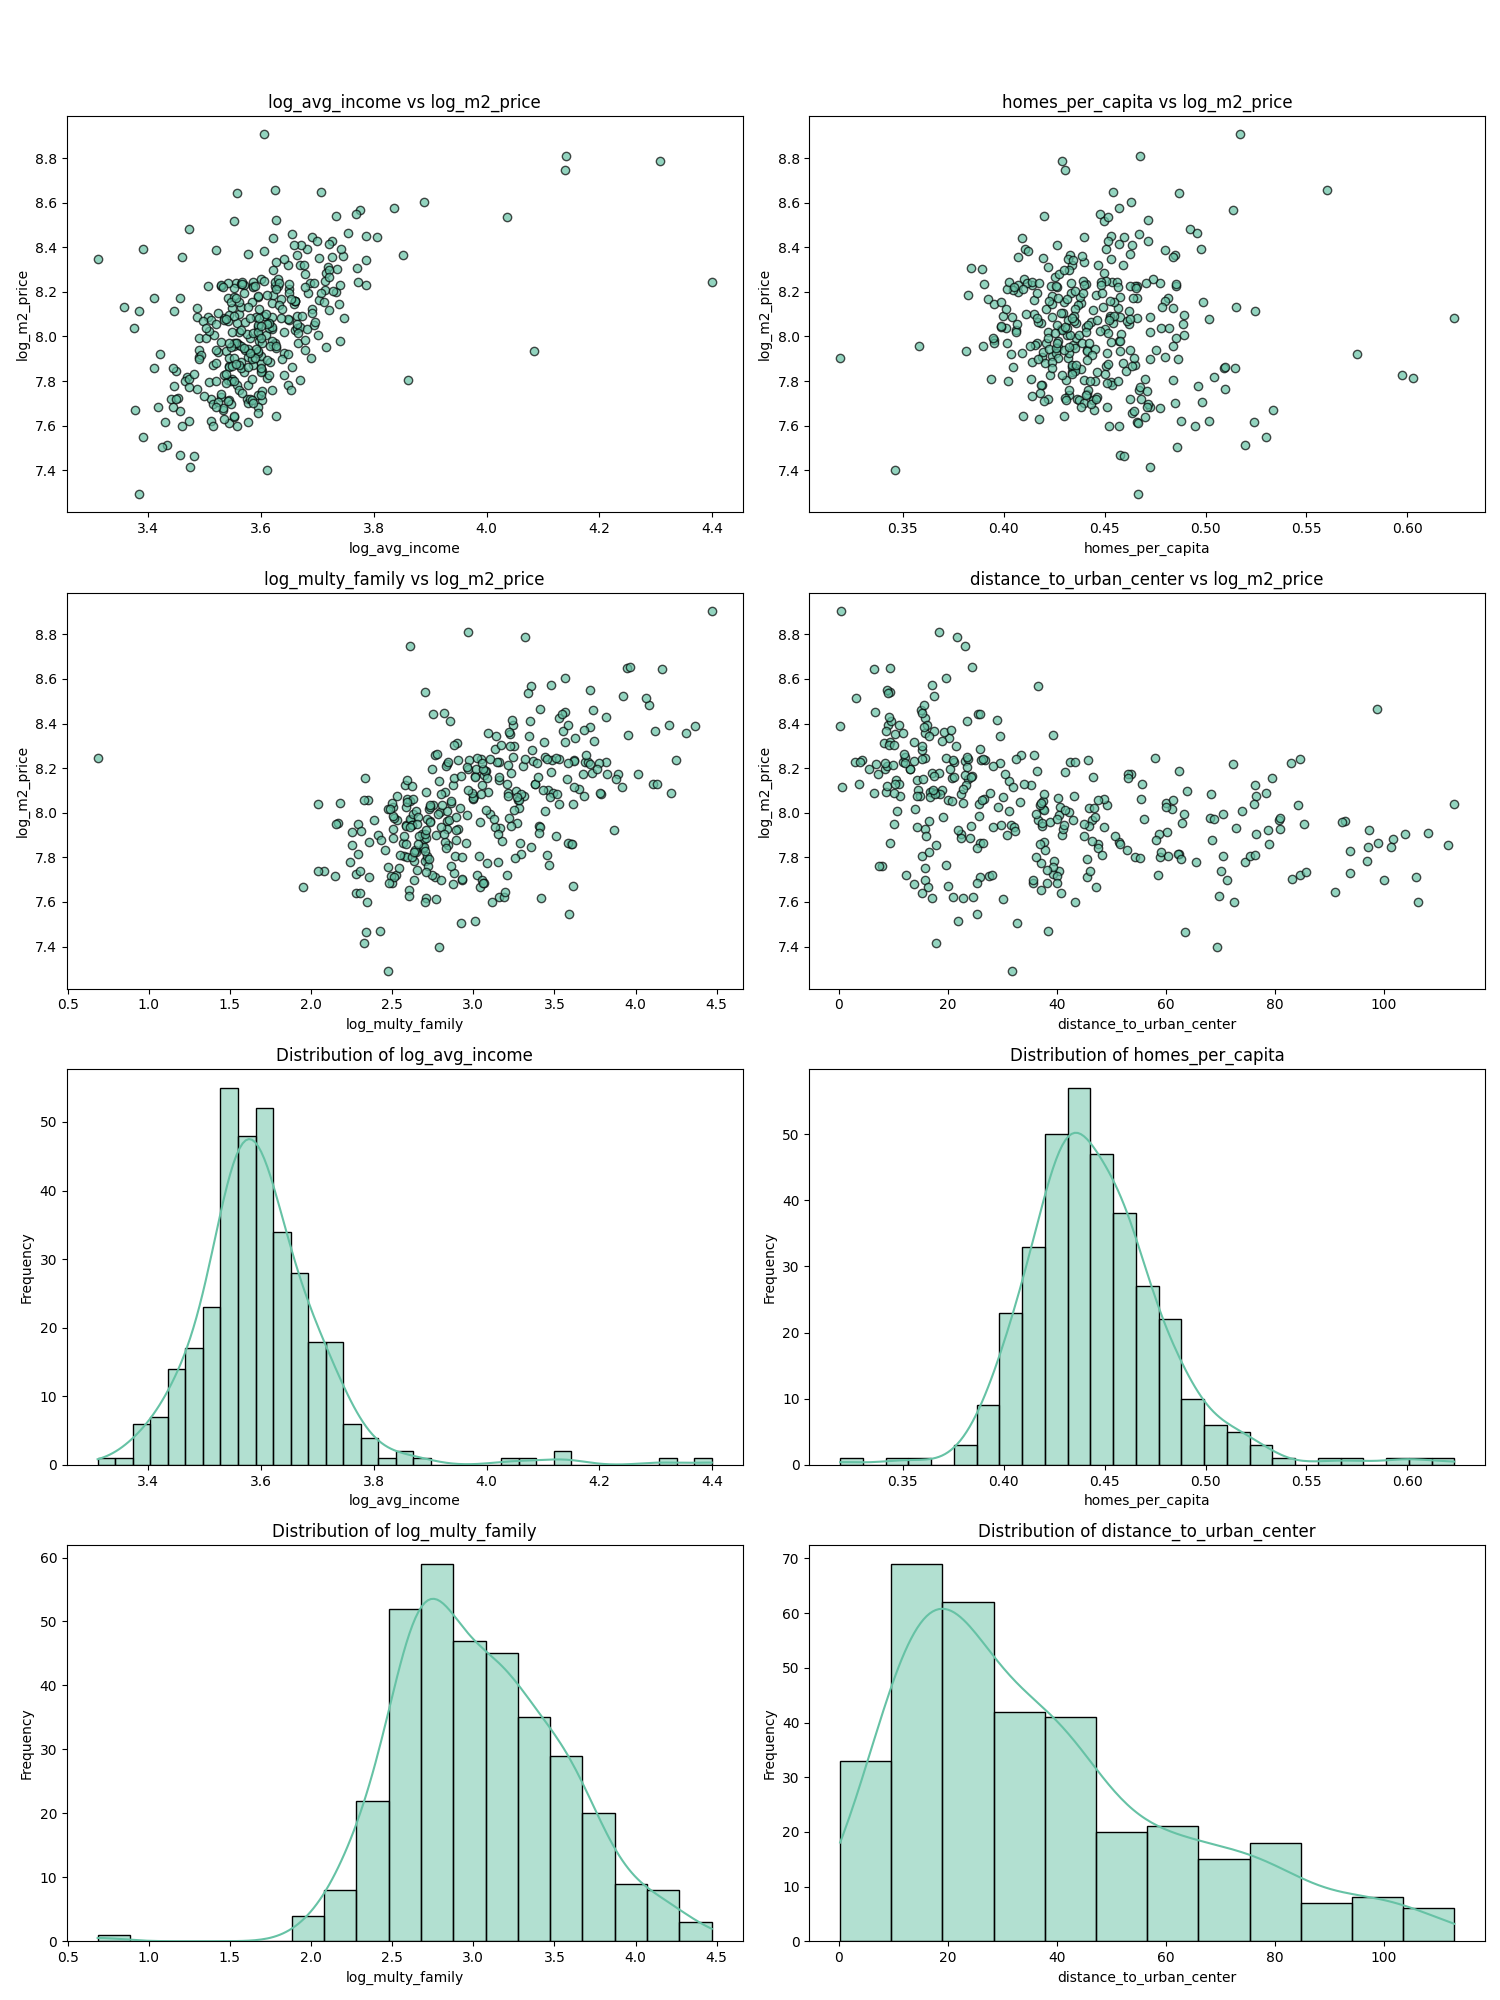
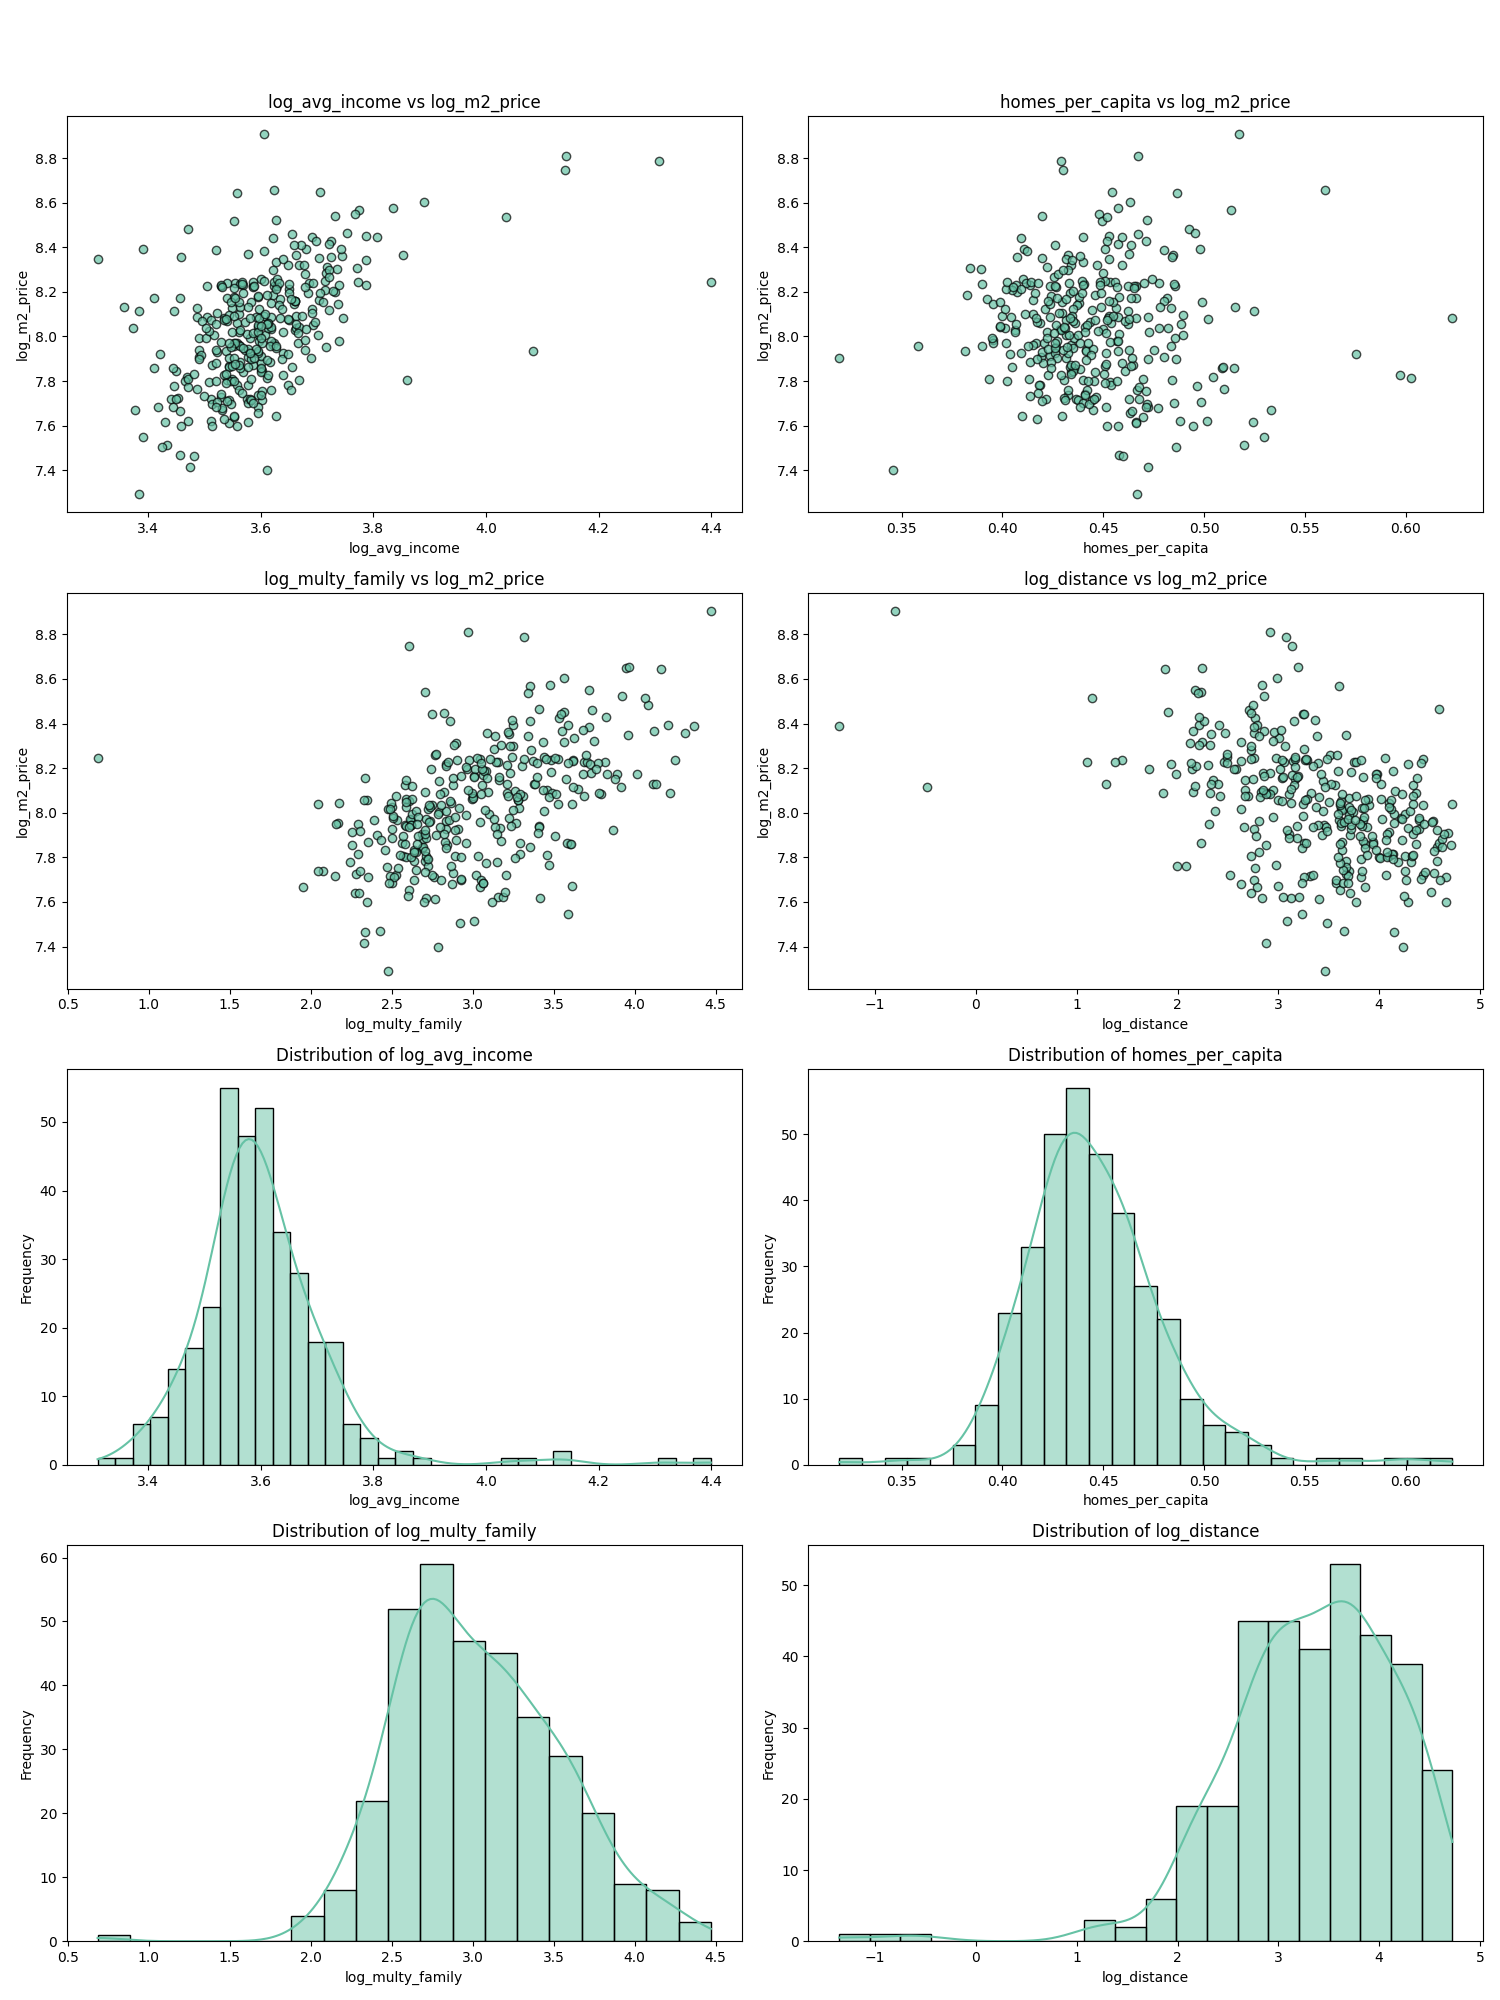
switch to log distance in predictor scatter plots

diff --git a/src/analysis/phase_1/plots.py b/src/analysis/phase_1/plots.py
@@ -54,7 +54,7 @@ def scatter_plots(df: pd.DataFrame) -> None:
     Returns:
         None
     """
-    variables = ['log_avg_income', 'homes_per_capita', 'log_multy_family', 'distance_to_urban_center']
+    variables = ['log_avg_income', 'homes_per_capita', 'log_multy_family', 'log_distance']
 
     fig, axes = plt.subplots(nrows=4, ncols=2, figsize=(15, 20))
 
